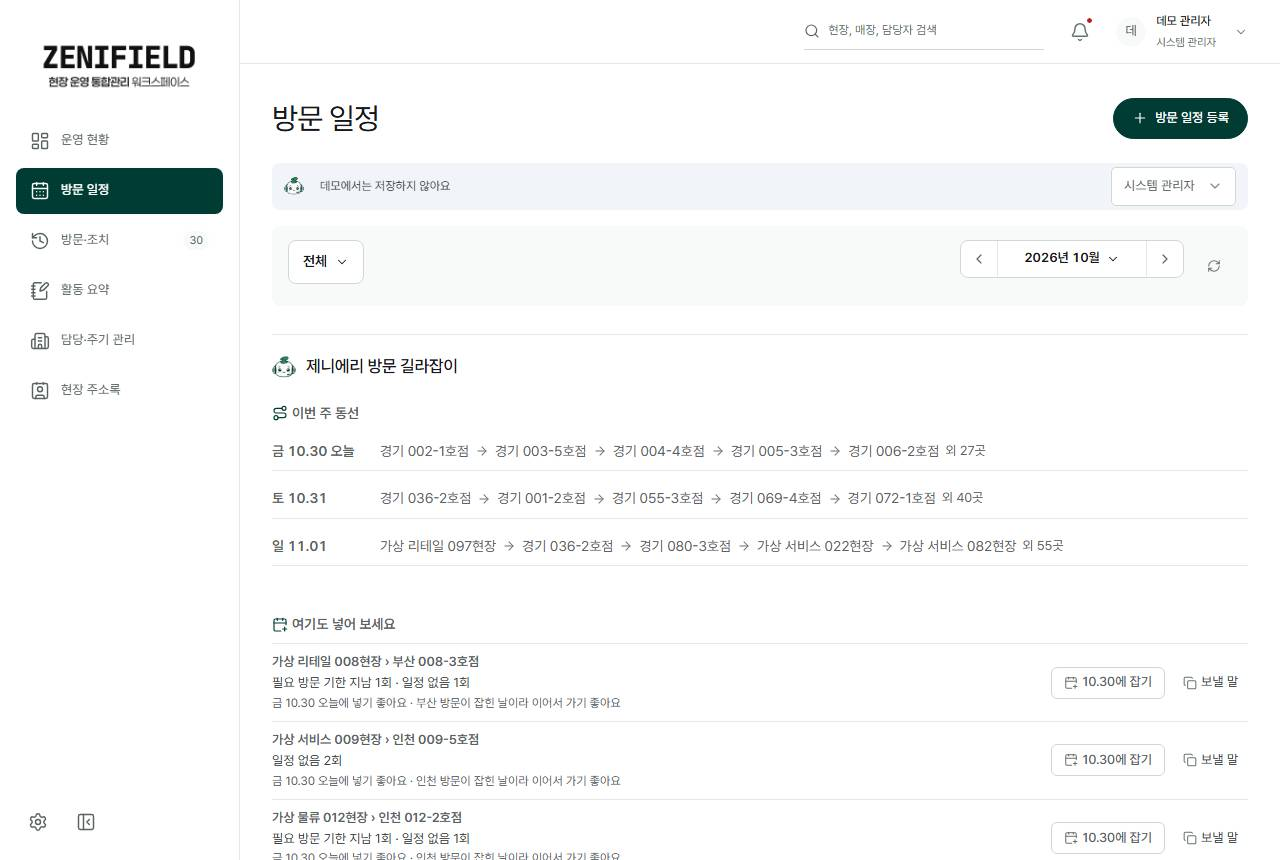
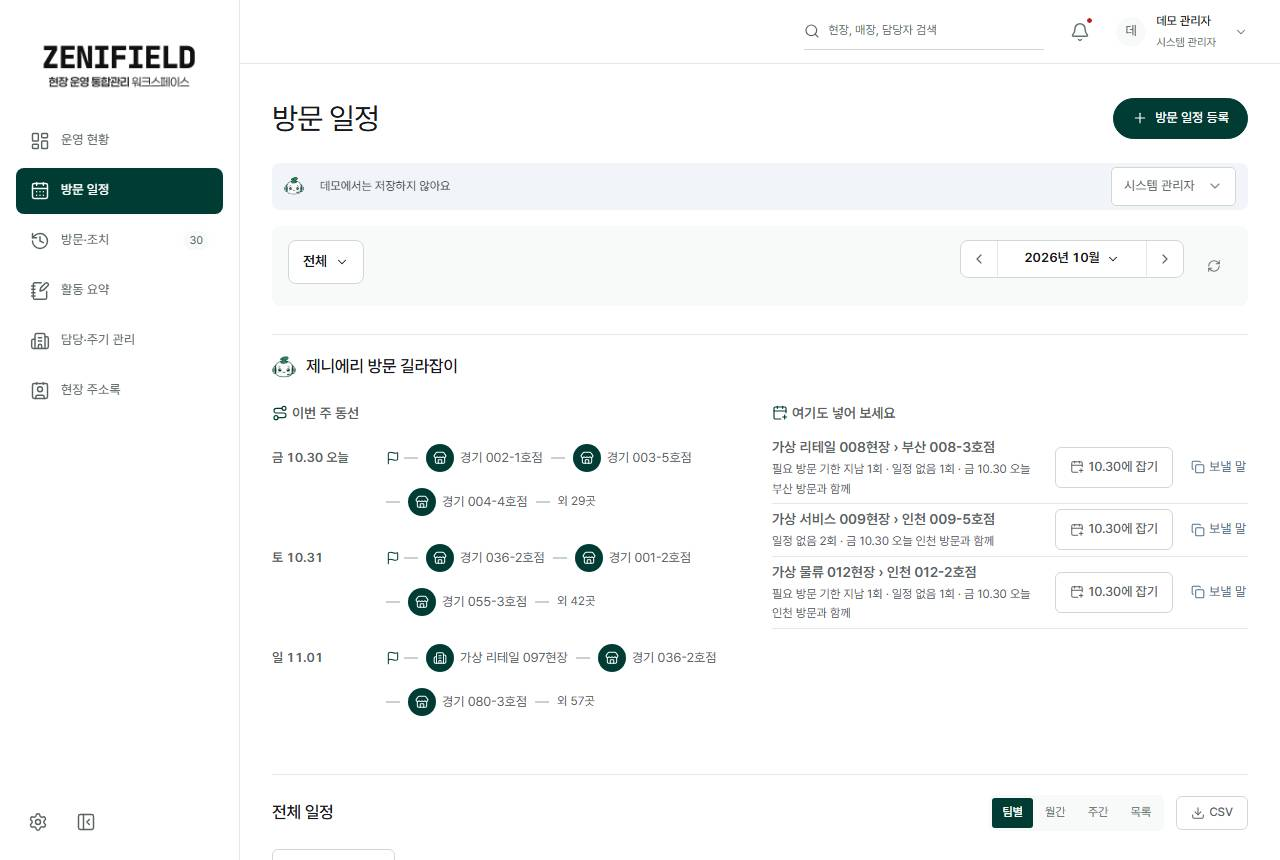
방문 길라잡이 한눈에: 이번 주 동선을 아이콘 점·선 그림으로(점 누르면 결과 등록), 넓은 화면 두 칸, 넣을 곳 줄 압축

diff --git a/app/platform/page-guide.tsx b/app/platform/page-guide.tsx
@@ -2,7 +2,7 @@
 // 방문 일정·방문 기록 맨 위 제니에리 정리(후속 조치 정리와 같은 틀): 무슨 일(현황 문단·진척 문단) → 이렇게 챙겨 보세요(할 일 한 문장 + 3건 + 바로 하기·보낼 말 복사).
 // AI 없이 보는 범위의 사실만(DC-JUDGMENT). 비교는 자기 지난주와만(DC-FEEDBACK).
 import {useMemo,Fragment,type ReactNode} from 'react';
-import {Newspaper,ListChecks,CalendarPlus,PenLine,ClipboardPen,UserRoundPen,Route,ArrowRight} from 'lucide-react';
+import {Newspaper,ListChecks,CalendarPlus,PenLine,ClipboardPen,UserRoundPen,Route,ArrowRight,Building2,Store,Flag} from 'lucide-react';
 import {AiMark} from './ai-mark';
 import {CopyButton} from './copy-button';
 import {dayShift,daysBetween,between,weekOf,mmdd} from '../lib/date';
@@ -33,21 +33,21 @@ export function ScheduleGuide({c}:{c:Context}){
   const label=(d:string)=>dow[new Date(d+'T12:00:00Z').getUTCDay()]+' '+mmdd(d)+(d===c.now?' 오늘':'');
   const days:string[]=[];for(let d=c.now;d<=we;d=dayShift(d,1))days.push(d);
   const plan=c.visits.filter(v=>v.status==='planned'&&!!v.plannedDate&&v.plannedDate>=c.now&&v.plannedDate<=we);
-  const byDay=days.map(d=>{const vs=plan.filter(v=>v.plannedDate===d),seen=new Set<string>(),stops:{name:string;region:string}[]=[];
-   for(const v of vs){const t=tById.get(targetOf(v));const name=c.label(v);if(seen.has(name))continue;seen.add(name);stops.push({name,region:t?.region||''})}
+  const byDay=days.map(d=>{const vs=plan.filter(v=>v.plannedDate===d),seen=new Set<string>(),stops:{name:string;id:string;region:string;store:boolean;v:typeof vs[number]}[]=[];
+   for(const v of vs){const t=tById.get(targetOf(v));const name=c.label(v);if(seen.has(name))continue;seen.add(name);stops.push({name,id:t?.id||'',region:t?.region||'',store:t?.type==='store',v})}
    stops.sort((x,y)=>x.region.localeCompare(y.region));return {d,label:label(d),stops,regions:new Set(stops.map(s=>s.region).filter(Boolean))}});
   const att=attentionOf(targetFacts(c.scope,c.visits,c.actions,c.allMetrics.slots,c.now).values()).filter(x=>!x.upcoming&&(x.delayed.length||x.unplanned.length)).slice(0,3);
   const add=att.map(x=>{const t=x.target,same=byDay.find(d=>t.region&&d.regions.has(t.region)),empty=byDay.find(d=>!d.stops.length),day=same||empty||byDay[0];
-   return {x,t,day,why:same?`${t.region} 방문이 잡힌 날이라 이어서 가기 좋아요`:empty?'비어 있는 날이에요':'가장 가까운 날이에요'}});
+   return {x,t,day,why:same?`${t.region} 방문과 함께`:empty?'빈 날':'가까운 날'}});
   return {byDay:byDay.filter(d=>d.stops.length),add}},[c.visits,c.actions,c.scope,c.allMetrics,c.now]);
  return <section className="panel ai-brief action-brief route-guide" aria-label="제니에리 방문 길라잡이">
   <div className="panel-heading"><div><h2><AiMark/>제니에리 방문 길라잡이</h2></div></div>
-  <div className="chart-body"><div className="ai-brief-out">
+  <div className="chart-body"><div className="ai-brief-out route-cols">
    <section><h3><Route size={16} aria-hidden/>이번 주 동선</h3>
-    {g.byDay.length?<ol className="route-days">{g.byDay.map(d=><li key={d.d}><b>{d.label}</b><span>{d.stops.slice(0,5).map((s,i)=><Fragment key={s.name}>{i>0&&<ArrowRight size={14} aria-hidden/>}<em>{s.name}</em></Fragment>)}{d.stops.length>5&&<small>외 {d.stops.length-5}곳</small>}</span></li>)}</ol>:<p>이번 주 달력에 남은 방문이 없어요. 아래 곳부터 넣어 보세요.</p>}</section>
-   {g.add.length>0&&<section className="ai-brief-focus"><h3><CalendarPlus size={16} aria-hidden/>여기도 넣어 보세요</h3>
-    <ul className="action-late">{g.add.map(({x,t,day,why})=>{const owner=t.managerIds[0]||'',need=[x.delayed.length&&`필요 방문 기한 지남 ${x.delayed.length}회`,x.unplanned.length&&`일정 없음 ${x.unplanned.length}회`].filter(Boolean).join(' · ');
-     return <li key={t.id}><button type="button" onClick={()=>c.showTarget(t.id)}><b>{(t.type==='store'?t.siteName+' › ':'')+t.name}</b><span>{need}</span><small>{day.label}에 넣기 좋아요 · {why}</small></button><button type="button" className="btn small" onClick={()=>c.open('visit',undefined,{targetType:t.type,siteId:t.siteId,storeId:t.storeId||undefined,date:day.d})}><CalendarPlus size={14} aria-hidden/>{day.label.replace(' 오늘','').split(' ')[1]}에 잡기</button>{!self&&owner&&<CopyButton label={honor(c,owner)+'에게 보낼 말 복사'} text={`${honor(c,owner)}, ${t.name} 필요 방문 일정이 아직 없어요. ${day.label.replace(' 오늘','')}에 넣어 주시면 좋아요.`} visible="보낼 말"/>}</li>})}</ul></section>}
+    {g.byDay.length?<ol className="route-map">{g.byDay.map(d=><li key={d.d}><b>{d.label}</b><ol className="route-line"><li className="start" aria-hidden><Flag size={14}/></li>{d.stops.slice(0,3).map((st,i)=><li key={st.name}><button type="button" title={st.name+' 방문 결과 등록'} aria-label={d.label+' '+(i+1)+'번째 '+st.name+' 방문 결과 등록'} onClick={()=>c.open('visit',st.v,{result:true})}><i aria-hidden>{st.store?<Store size={14}/>:<Building2 size={14}/>}</i><span>{st.name}</span></button></li>)}{d.stops.length>3&&<li className="more"><span>외 {d.stops.length-3}곳</span></li>}</ol></li>)}</ol>:<p>이번 주 달력에 남은 방문이 없어요. 아래 곳부터 넣어 보세요.</p>}</section>
+   {g.add.length>0&&<section><h3><CalendarPlus size={16} aria-hidden/>여기도 넣어 보세요</h3>
+    <ul className="route-add">{g.add.map(({x,t,day,why})=>{const owner=t.managerIds[0]||'',need=[x.delayed.length&&`필요 방문 기한 지남 ${x.delayed.length}회`,x.unplanned.length&&`일정 없음 ${x.unplanned.length}회`].filter(Boolean).join(' · ');
+     return <li key={t.id}><button type="button" onClick={()=>c.showTarget(t.id)}><b>{(t.type==='store'?t.siteName+' › ':'')+t.name}</b><small>{need} · {day.label} {why}</small></button><button type="button" className="btn small" onClick={()=>c.open('visit',undefined,{targetType:t.type,siteId:t.siteId,storeId:t.storeId||undefined,date:day.d})}><CalendarPlus size={14} aria-hidden/>{day.label.replace(' 오늘','').split(' ')[1]}에 잡기</button>{!self&&owner&&<CopyButton label={honor(c,owner)+'에게 보낼 말 복사'} text={`${honor(c,owner)}, ${t.name} 필요 방문 일정이 아직 없어요. ${day.label.replace(' 오늘','')}에 넣어 주시면 좋아요.`} visible="보낼 말"/>}</li>})}</ul></section>}
   </div></div>
  </section>;
 }

diff --git a/app/platform/styles.css b/app/platform/styles.css
@@ -996,3 +996,35 @@
 .route-days svg{color:var(--zf-text-muted)}
 .route-days small{color:var(--zf-text-secondary)}
 @media(max-width:760px){.route-days li{grid-template-columns:minmax(0,1fr);gap:4px}}
+/* 방문 길라잡이: 한눈에 — 넓은 화면 두 칸(동선 | 넣을 곳), 줄은 이름+사실 한 줄과 버튼 */
+.route-cols{display:grid;gap:16px}
+@media(min-width:1024px){.route-cols{grid-template-columns:minmax(0,1fr) minmax(0,1fr);gap:32px}}
+.route-cols>section{margin:0}
+.route-days{gap:0}
+.route-days li{grid-template-columns:76px minmax(0,1fr);padding:6px 0}
+.route-add{list-style:none;margin:0;padding:0}
+.route-add li{display:flex;align-items:center;gap:8px;padding:4px 0;border-bottom:1px solid var(--zf-border)}
+.app-shell .route-add li>button:first-child{flex:1;min-width:0;min-height:44px;display:flex;flex-direction:column;align-items:flex-start;justify-content:center;gap:2px;padding:0;border:0;background:none;text-align:left;cursor:pointer;color:inherit}
+.route-add li>button:first-child b{font-size:14px;font-weight:600;overflow:hidden;text-overflow:ellipsis;white-space:nowrap;max-width:100%}
+.route-add li>button:first-child small{font-size:12px;color:var(--zf-text-secondary)}
+.route-add li>.btn,.route-add li>.copy-button{flex:none}
+.ai-brief-out.route-cols>section,.ai-brief-out.route-cols>section+section{margin:0;padding:0;border:0}
+.route-say{margin:0;font-size:15px;line-height:1.7;max-width:var(--zf-read-measure)}.route-say b{font-weight:600;font-variant-numeric:tabular-nums}
+.route-cols,.route-cols>section{min-width:0}.route-say{overflow-wrap:anywhere}.route-say .zf-ent-link{white-space:normal;display:inline}
+@media(max-width:760px){.route-add li{flex-wrap:wrap}.app-shell .route-add li>button:first-child{flex-basis:100%}}
+/* 이번 주 동선 그림: 날마다 번호 점을 선으로 잇고, 점(장소)을 누르면 그 방문 결과 등록 */
+.route-map{list-style:none;margin:0;padding:0;display:grid;gap:4px}
+.route-map>li{display:grid;grid-template-columns:76px minmax(0,1fr);gap:8px;align-items:start;padding:4px 0}
+.route-map>li>b{font-size:13px;font-weight:600;font-variant-numeric:tabular-nums;line-height:44px}
+.route-line{list-style:none;margin:0;padding:0;display:flex;flex-wrap:wrap;align-items:center;row-gap:0}
+.route-line>li{display:flex;align-items:center}
+.route-line>li+li::before{content:"";width:14px;height:2px;background:var(--zf-border-strong,#c9d1cf);margin:0 2px}
+.app-shell .route-line button{display:inline-flex;align-items:center;gap:6px;min-height:44px;padding:0 6px;border:0;background:none;color:inherit;font-size:13px;cursor:pointer;border-radius:4px}
+.app-shell .route-line button:hover span,.app-shell .route-line button:focus-visible span{text-decoration:underline}
+.route-line i{display:inline-grid;place-items:center;width:22px;height:22px;border-radius:50%;background:#003c33;color:#fff;font-style:normal;font-size:11px;font-weight:600;font-variant-numeric:tabular-nums;flex:none}
+.route-line .more span{font-size:12px;color:var(--zf-text-secondary);padding:0 6px}
+@media(max-width:760px){.route-map>li{grid-template-columns:minmax(0,1fr);gap:0}.route-map>li>b{line-height:1.6}}
+.route-line i{width:28px;height:28px}
+.route-line .start{color:#003c33;padding:0 2px}
+.app-shell .route-line button:hover i,.app-shell .route-line button:focus-visible i{outline:2px solid #003c33;outline-offset:2px}
+.route-map>li{grid-template-columns:104px minmax(0,1fr)}@media(max-width:760px){.route-map>li{grid-template-columns:minmax(0,1fr)}}

diff --git a/PROJECT_RULE.md b/PROJECT_RULE.md
@@ -45,7 +45,7 @@
 | DC-DESIGN-ZENIERI | AI 표시 = `AiMark`(`zenieri-chatbot.png`, 24/20/44px) 하나. 문장 = 제니에리 해요체 완결 문장·직함 호칭, 메모체·콜론 나열 금지(AI `briefPrompt`·규칙 `ruleBrief` 모두). 권한 안내는 거부 때만. 지침 9-B |
 | DC-DESIGN-BRIEF | 브리핑 = 제목 `제니에리가 정리해서 말씀드려요`·누구 이야기 → 무슨 일(한 문단) → 어디에 무엇이(요약+자세히 보기) → 이렇게 챙겨 보세요(보는 사람 관리 가이드·넘기는 지시 금지·복사) → 더 보기(이행 가이드+복사·전할 말·다음 주·근거·AI 고지). 칸 제목 14px·600+16px 아이콘, 상태 칩 하나+작성 중 가림막. 저장본 키 사용자·직급별·로그아웃 삭제. 지침 9-B |
 | DC-DESIGN-DASHBOARD | 모든 직급 같은 구성: H1 아래 기준 시각 → `ZeniCheer`(보는 범위 사실·자기 과거 비교·직함 호칭) → 브리핑 → 범위·탭 → 지표 4개 → 차트 한 쌍(조직 공백표 + 주별 이행률 꺾은선·축 하나) → 오늘·이번 주·안 끝난 조치 5줄+전체 보기. 누적 막대·이중 축·도넛·게이지·중복 차트·조직 순위 금지. 지침 6.1 |
-| DC-DESIGN-SCHEDULE | 방문 일정 맨 위 = 방문 길라잡이(이번 주 동선·여기도 넣어 보세요+넣기 좋은 날), 브리핑·`무슨 일` 문단 금지. 일정 등록 추천은 `briefPlaces`로 브리핑 연결(말풍선·꼬리표·맨 앞). 추천 정렬 칩 급한 순(attentionOf)·오래 못 간 순·지역별·밀린 조치(사실 정렬, 점수 금지). 브리핑 가이드 줄 버튼은 줄 끝(1023px 이하 문장 아래). 방문 일정 기본: 잡매니저 월간 / 파트장 이상 단위×요일 주간. 등록 = `VisitSuggest`(먼저 가 보면 좋은 곳 5곳: 왜·주기·마지막 방문·확인할 것·같은 날 함께, `attentionOf`→`staleStores`, 사전 확인사항 빈칸 채움) → 7일 빈 날 → `schedule.ts` 후보 5개. 사람이 고른 값 우선 |
+| DC-DESIGN-SCHEDULE | 방문 일정 맨 위 = 방문 길라잡이(이번 주 동선 그림: 아이콘 점·선, 점 클릭 = 결과 등록, 넓은 화면 두 칸·여기도 넣어 보세요+넣기 좋은 날), 브리핑·`무슨 일` 문단 금지. 일정 등록 추천은 `briefPlaces`로 브리핑 연결(말풍선·꼬리표·맨 앞). 추천 정렬 칩 급한 순(attentionOf)·오래 못 간 순·지역별·밀린 조치(사실 정렬, 점수 금지). 브리핑 가이드 줄 버튼은 줄 끝(1023px 이하 문장 아래). 방문 일정 기본: 잡매니저 월간 / 파트장 이상 단위×요일 주간. 등록 = `VisitSuggest`(먼저 가 보면 좋은 곳 5곳: 왜·주기·마지막 방문·확인할 것·같은 날 함께, `attentionOf`→`staleStores`, 사전 확인사항 빈칸 채움) → 7일 빈 날 → `schedule.ts` 후보 5개. 사람이 고른 값 우선 |
 | DC-DESIGN-RECORDS | 방문 기록 = 표 위 탭 한 줄 단일 선택(전체·먼저 볼 보고·안 끝난 이슈·고객 요청·결과 안 쓴 방문), 기준 `judgment.ts` issueGuide(저장 판정만), 0건 숨김, 줄마다 걸린 이슈. 이슈 종류 묶음·판정 수준 묶음·다단계 필터 금지 |
 | DC-DESIGN-FORM | 입력 폼 = 한 열 기본(짧은 짝 칸만 2열), 라벨 위, 선택 칸 `(선택)` 표시. 금지: 안내 박스·준비 중 기능 안내·구역 번호·같은 안내 중복·선택 칸 접기. 새로 만들 때 진행 상태 칸 숨김, 수시 방문은 예정 시간·사전 확인사항 숨김. 혼자 남는 칸은 한 줄 전체. 갱신 2026-10-30 |
 | DC-DESIGN-PAGE-GUIDE | 방문 일정·방문 기록·후속 조치 맨 위 제니에리 정리(같은 틀: 무슨 일 문단 → 할 일 한 문장 + 3건). 줄 = [대상·내용(열기)] [바로 하기 작은 버튼: 일정 잡기·결과 쓰기] [받는 사람에게 보낼 말 복사 44px] 한 줄. 브리핑 `이렇게 챙겨 보세요`도 같은 바로 하기·복사, 문장 속 현장·매장 이름 링크. `page-guide.tsx`·`action-brief.tsx`. 갱신 2026-10-30 |

diff --git a/AGENTS.md b/AGENTS.md
@@ -75,7 +75,7 @@
 - 한 화면 한 번: 같은 숫자·목록을 두 곳에 두지 않음. 조직 표 순위 정렬 금지.
 
 **방문 일정**
-- 맨 위 `제니에리 방문 길라잡이`(브리핑 반복 금지): 이번 주 동선(날마다 장소 → 장소, 같은 지역끼리) → 여기도 넣어 보세요 3곳(넣기 좋은 날 + `MM.DD에 잡기`·보낼 말).
+- 맨 위 `제니에리 방문 길라잡이`(브리핑 반복 금지, 1024px 이상 두 칸): 이번 주 동선 그림(날마다 깃발→현장·매장 아이콘 점을 선으로 잇고 3곳+외 n, 점을 누르면 그 방문 결과 등록) → 여기도 넣어 보세요 3곳(넣기 좋은 날 + `MM.DD에 잡기`·보낼 말).
 - 일정 등록 추천: 제니에리 말풍선(브리핑에서 짚은 곳부터 + 이유), 그 곳은 꼬리표·맨 앞(`briefPlaces`).
 - 기본 보기: 잡매니저 월간 / 파트장 이상 하위 단위×요일 주간 달력.
 - 등록(AI 기본·`직접 입력` 전환): 추천 위 정렬 칩(급한 순·오래 못 간 순·지역별·밀린 조치). 대상 고르기 전 `제니에리가 먼저 가 보면 좋은 곳을 골랐어요` 최대 5곳(왜·주기·마지막 방문·확인할 것·같은 날 함께) → 앞 7일 빈 날 칩 → 대상 정하면 사실 한 줄+후보 날짜 5개(`schedule.ts`). 사람이 고른 값 우선, AI 초안은 빈칸만.
